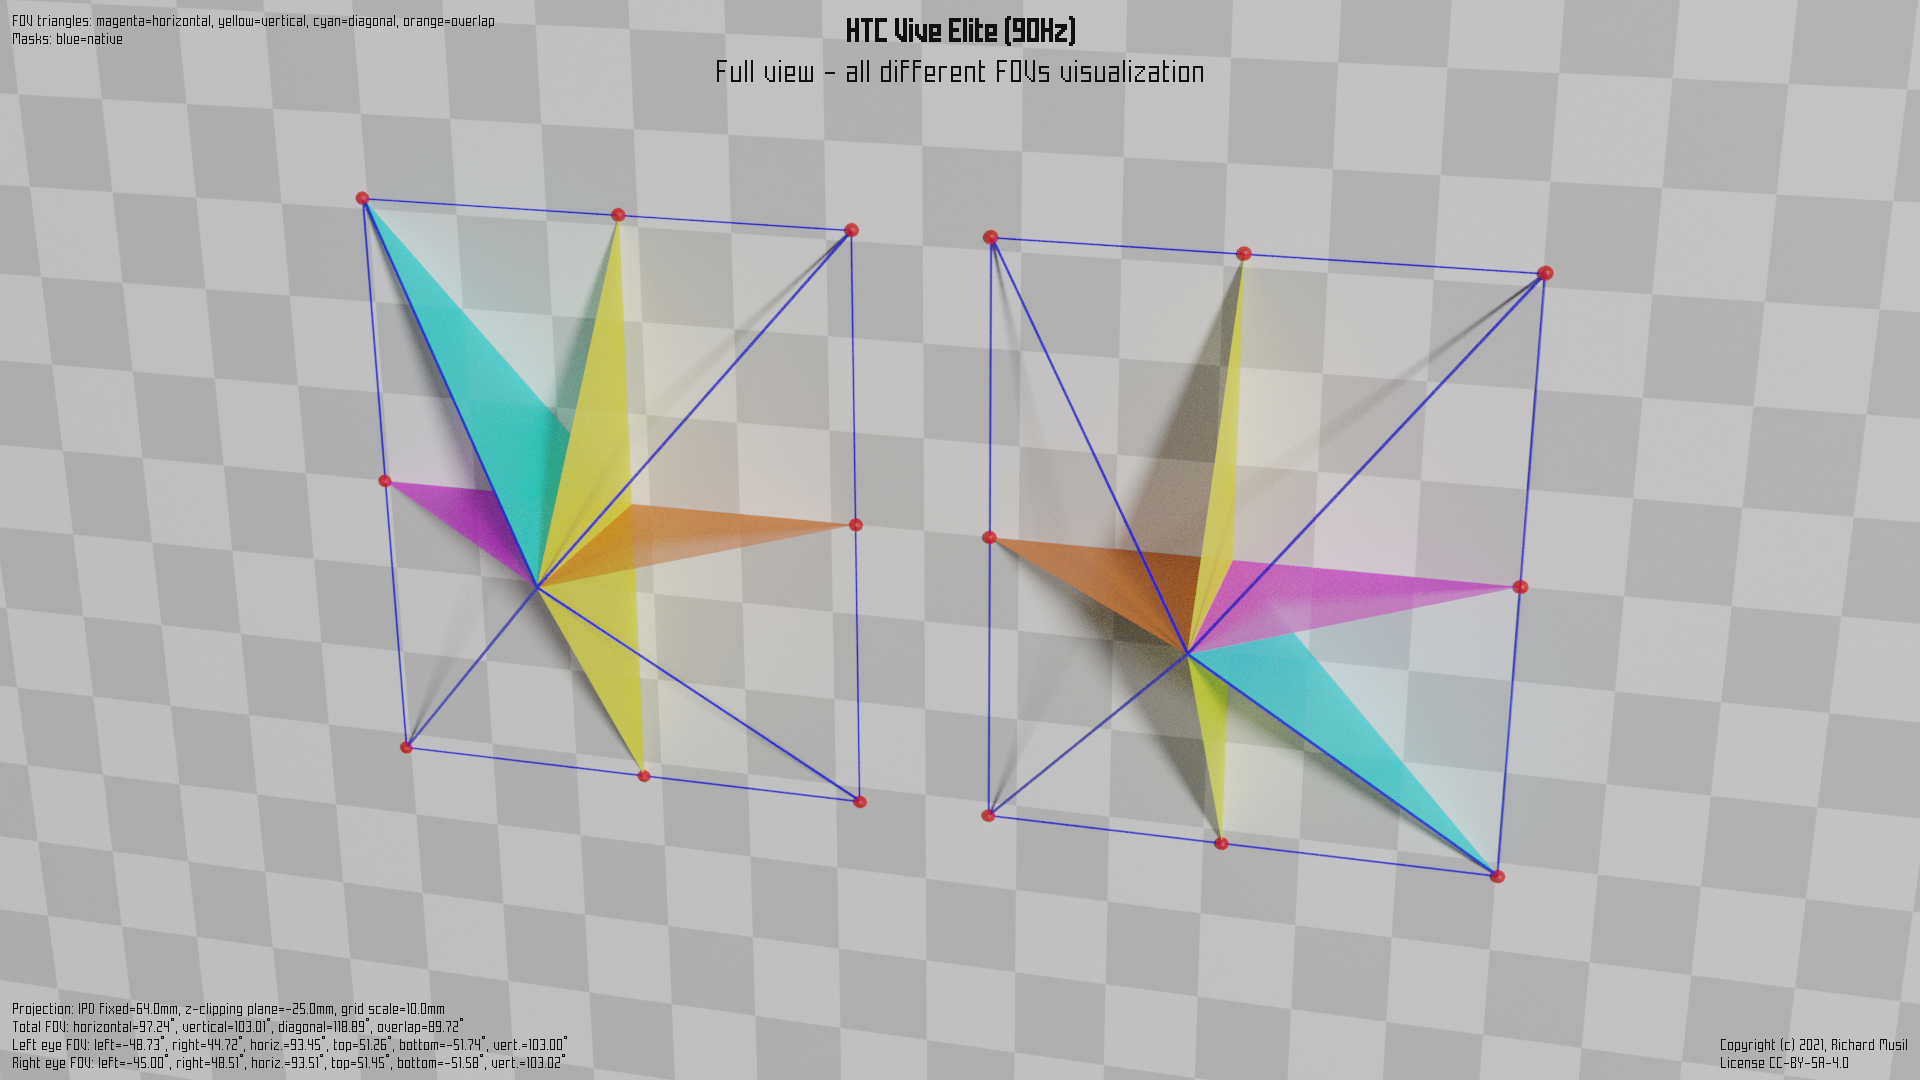
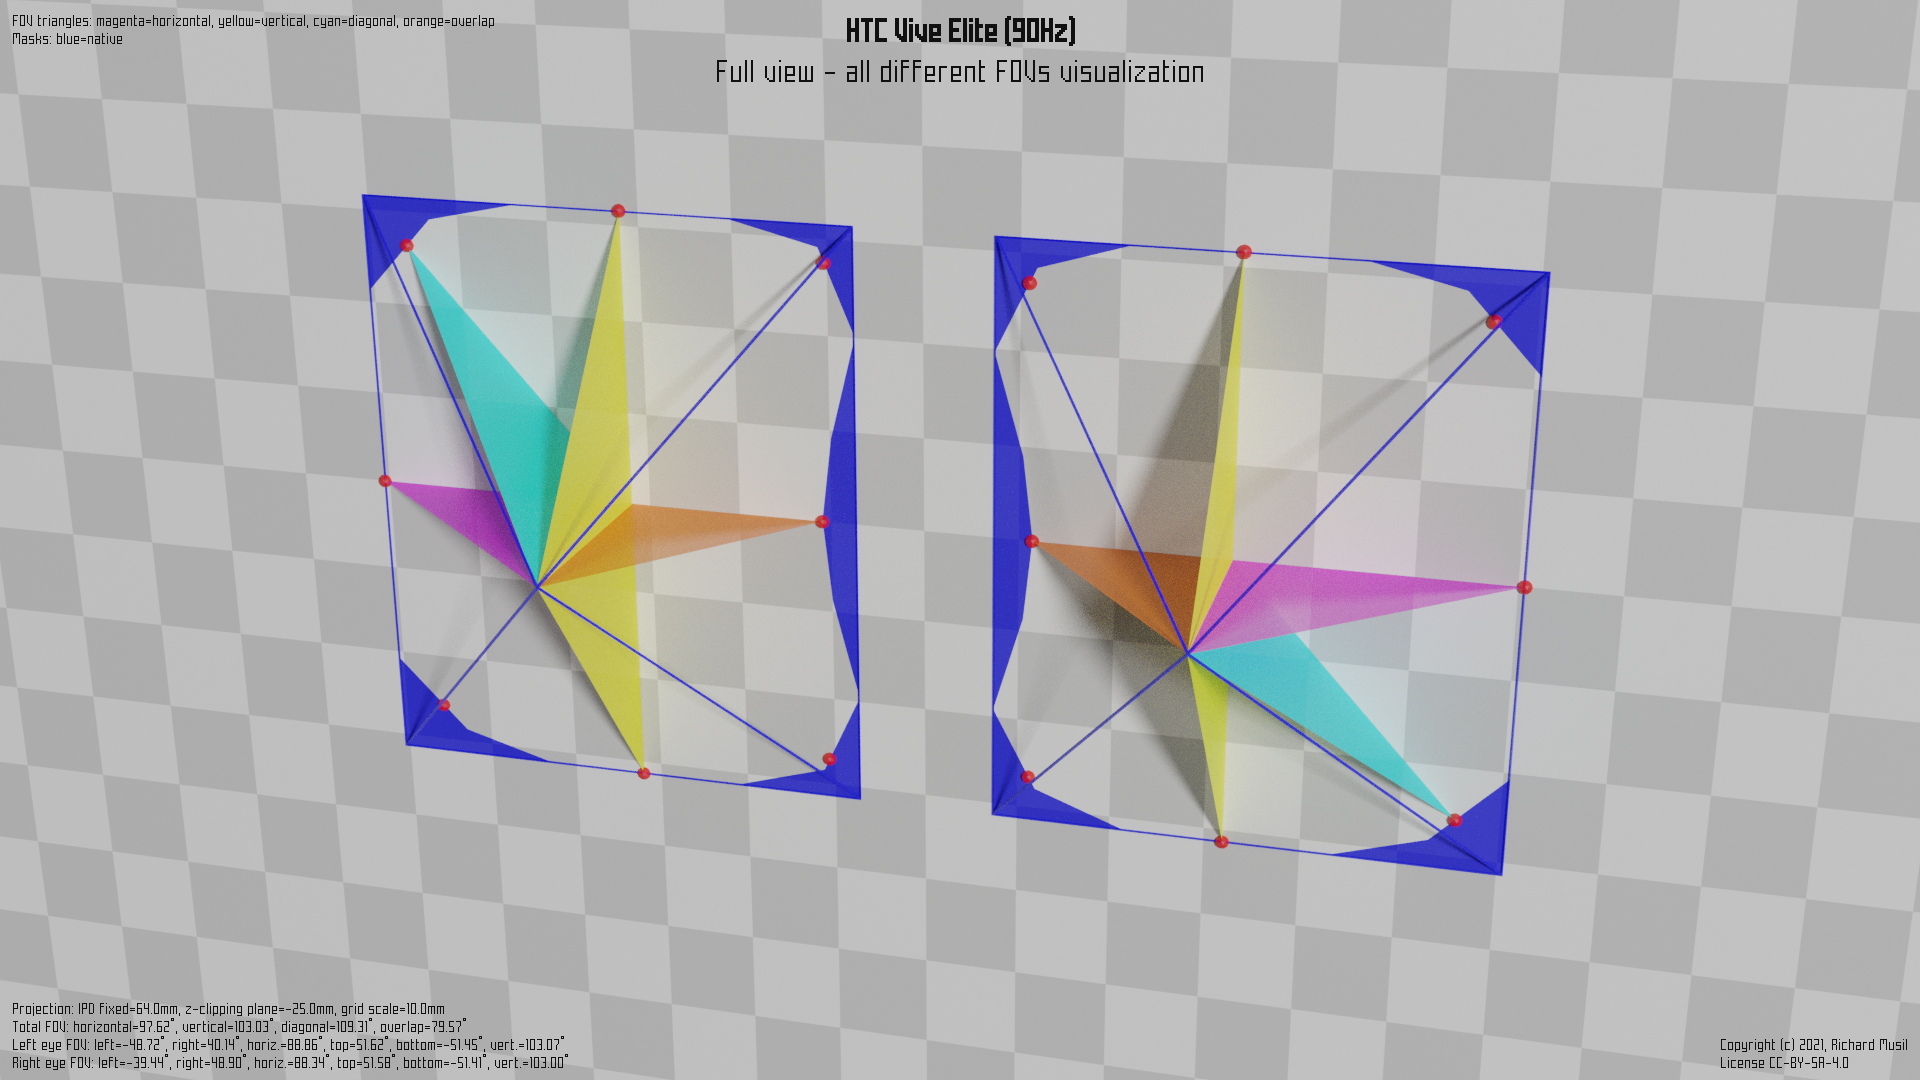
Added HAM to HTC Cosmos Elite.

diff --git a/hmd_cfgs/ViveElite_Native_90Hz.md b/hmd_cfgs/ViveElite_Native_90Hz.md
@@ -1,6 +1,6 @@
 ---
 title: HTC Vive Elite (90Hz)
-date: 2020-05-12 14:38:12
+date: 2021-03-26 14:41:15
 ---
 # HTC Vive Elite (90Hz)
 
@@ -10,75 +10,79 @@ as recorded and displayed by [`hmdq` or `hmdv`](https://github.com/risa2000/hmdq
 ```
 hmdv version 2.1.1 - displaying hmdq output data in no time
 
-    Time stamp: 2020-05-12 14:38:12
-  hmdq version: 2.0.1
+    Time stamp: 2021-03-26 14:41:15
+  hmdq version: 2.1.1
 Output version: 5
-    OS version: 10.0.18362.778
+    OS version: 10.0.19041.685
 
 ... Subsystem: OpenVR ...
 
-OpenVR runtime version: 1.11.11
+OpenVR runtime version: 1.17.2
 
-Recommended render target size: [2016, 2380]
+Recommended render target size: [1912, 2256]
 
 Left eye HAM mesh:
-    No mesh defined by the headset
+     original vertices: 36, triangles: 12
+    optimized vertices: 20, n-gons: 5
+             mesh area: 8.73 %
 
 Left eye to head transformation matrix:
-    [[ 1.      ,  0.      ,  0.      , -0.03335 ],
+    [[ 1.      ,  0.      ,  0.      , -0.03385 ],
      [ 0.      ,  1.      ,  0.      ,  0.      ],
      [ 0.      ,  0.      ,  1.      ,  0.015   ]]
 
 Left eye raw LRBT values:
-    left:        -1.139637
-    right:        0.990179
-    bottom:      -1.267859
-    top:          1.246508
+    left:        -1.139201
+    right:        0.993099
+    bottom:      -1.254701
+    top:          1.262598
 
 Left eye head FOV:
-    left:       -48.73 deg
-    right:       44.72 deg
-    bottom:     -51.74 deg
-    top:         51.26 deg
-    horiz.:      93.45 deg
-    vert.:      103.00 deg
+    left:       -48.72 deg
+    right:       40.14 deg
+    bottom:     -51.45 deg
+    top:         51.62 deg
+    horiz.:      88.86 deg
+    vert.:      103.07 deg
 
 Right eye HAM mesh:
-    No mesh defined by the headset
+     original vertices: 36, triangles: 12
+    optimized vertices: 20, n-gons: 5
+             mesh area: 9.54 %
 
 Right eye to head transformation matrix:
-    [[ 1.      ,  0.      ,  0.      ,  0.03335 ],
+    [[ 1.      ,  0.      ,  0.      ,  0.03385 ],
      [ 0.      ,  1.      ,  0.      ,  0.      ],
      [ 0.      ,  0.      ,  1.      ,  0.015   ]]
 
 Right eye raw LRBT values:
-    left:        -0.999962
-    right:        1.130730
-    bottom:      -1.260628
-    top:          1.254772
+    left:        -0.983385
+    right:        1.146312
+    bottom:      -1.253234
+    top:          1.260992
 
 Right eye head FOV:
-    left:       -45.00 deg
-    right:       48.51 deg
-    bottom:     -51.58 deg
-    top:         51.45 deg
-    horiz.:      93.51 deg
-    vert.:      103.02 deg
+    left:       -39.44 deg
+    right:       48.90 deg
+    bottom:     -51.41 deg
+    top:         51.58 deg
+    horiz.:      88.34 deg
+    vert.:      103.00 deg
 
 Total FOV:
-    horizontal:  97.24 deg
-    vertical:   103.01 deg
-    diagonal:   118.89 deg
-    overlap:     89.72 deg
+    horizontal:  97.62 deg
+    vertical:   103.03 deg
+    diagonal:   109.31 deg
+    overlap:     79.57 deg
 
 View geometry:
     left view rotation:     0.0 deg
     right view rotation:    0.0 deg
-    reported IPD:          66.7 mm
+    reported IPD:          67.7 mm
 
 
 ```
-Recorded and contributed by _vrgamerdude_.
+Recorded and contributed by _knob2001_.
 
 ## Rendered FOV visualizations
 

diff --git a/hmd_table.md b/hmd_table.md
@@ -1,6 +1,6 @@
 ---
 title: HMD Geometry Database
-date: 2021-02-02 01:06:36
+date: 2021-03-26 15:31:55
 permalink: /
 ---
 # HMD Geometry Database
@@ -21,7 +21,7 @@ Model | Config | FOV hor. | FOV ver. | FOV diag. | Overlap | HAM | Rot LE | Rot 
 --- | --- | ---: | ---: | ---: | ---: | ---: | ---: | ---:
 HP Reverb G2 | [Native+90Hz](hmd_cfgs/ReverbG2_Native_90Hz.md) | [98.85°](images/ReverbG2_Native_90Hz_top.dmx.png) | [90.85°](images/ReverbG2_Native_90Hz_left.dmx.png) | [107.52°](images/ReverbG2_Native_90Hz_over.dmx.png) | [84.31°](images/ReverbG2_Native_90Hz_top.dmx.png) | [16.51%](images/ReverbG2_Native_90Hz_back.dmx.png) | 0.2° | -0.2°
 HP Reverb | [Native+90Hz](hmd_cfgs/Reverb_Native_90Hz.md) | [95.76°](images/Reverb_Native_90Hz_top.dmx.png) | [90.43°](images/Reverb_Native_90Hz_left.dmx.png) | [111.78°](images/Reverb_Native_90Hz_over.dmx.png) | [86.99°](images/Reverb_Native_90Hz_top.dmx.png) | [0.04%](images/Reverb_Native_90Hz_back.dmx.png) | 0.2° | -0.2°
-HTC Vive Elite | [Native+90Hz](hmd_cfgs/ViveElite_Native_90Hz.md) | [97.24°](images/ViveElite_Native_90Hz_top.dmx.png) | [103.01°](images/ViveElite_Native_90Hz_left.dmx.png) | [118.89°](images/ViveElite_Native_90Hz_over.dmx.png) | [89.72°](images/ViveElite_Native_90Hz_top.dmx.png) |  |  | 
+HTC Vive Elite | [Native+90Hz](hmd_cfgs/ViveElite_Native_90Hz.md) | [97.62°](images/ViveElite_Native_90Hz_top.dmx.png) | [103.03°](images/ViveElite_Native_90Hz_left.dmx.png) | [109.31°](images/ViveElite_Native_90Hz_over.dmx.png) | [79.57°](images/ViveElite_Native_90Hz_top.dmx.png) | [9.14%](images/ViveElite_Native_90Hz_back.dmx.png) |  | 
 HTC Vive Pro | [Native+90Hz](hmd_cfgs/VivePro_Native_90Hz.md) | [107.06°](images/VivePro_Native_90Hz_top.dmx.png) | [107.71°](images/VivePro_Native_90Hz_left.dmx.png) | [110.48°](images/VivePro_Native_90Hz_over.dmx.png) | [90.46°](images/VivePro_Native_90Hz_top.dmx.png) | [20.20%](images/VivePro_Native_90Hz_back.dmx.png) |  | 
 HTC Vive | [Native+90Hz](hmd_cfgs/Vive_Native_90Hz.md) | [108.77°](images/Vive_Native_90Hz_top.dmx.png) | [111.53°](images/Vive_Native_90Hz_left.dmx.png) | [113.18°](images/Vive_Native_90Hz_over.dmx.png) | [93.45°](images/Vive_Native_90Hz_top.dmx.png) | [19.10%](images/Vive_Native_90Hz_back.dmx.png) |  | 
 Oculus Rift CV1 | [Native+90Hz](hmd_cfgs/OculusRiftCV1_Native_90Hz.md) | [87.95°](images/OculusRiftCV1_Native_90Hz_top.dmx.png) | [89.66°](images/OculusRiftCV1_Native_90Hz_left.dmx.png) | [98.07°](images/OculusRiftCV1_Native_90Hz_over.dmx.png) | [71.15°](images/OculusRiftCV1_Native_90Hz_top.dmx.png) | [14.07%](images/OculusRiftCV1_Native_90Hz_back.dmx.png) |  | 
@@ -123,5 +123,5 @@ panels are (most likely) coplanar and parallel to the face.
 
 ---
 
-The latest headset data recorded: 2021-02-01 23:20:16  
-The table was generated: 2021-02-02 01:06:36
+The latest headset data recorded: 2021-03-26 14:41:15  
+The table was generated: 2021-03-26 15:31:55

diff --git a/changelog.md b/changelog.md
@@ -4,6 +4,9 @@ title: Changelog
 
 # HMD Geometry Database Changelog
 
+*March 26, 2021*
+* HTC Vive Elite (added HAM)
+
 *February 2, 2021*
 * Pimax 5k+ (updated)
 
